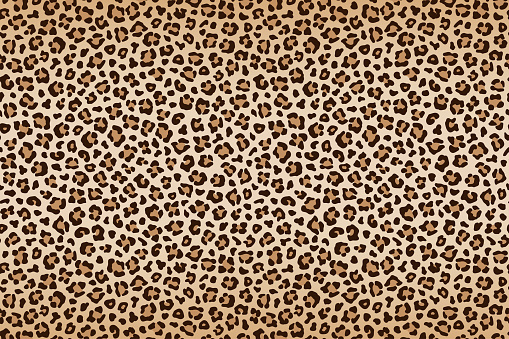
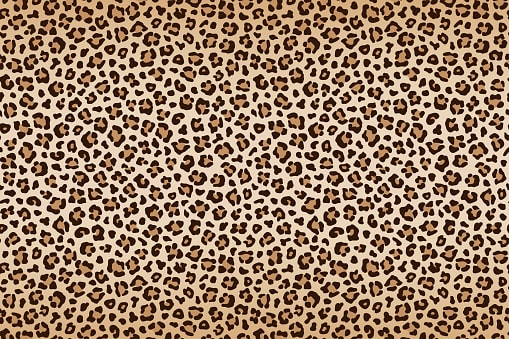
add webp

diff --git a/index.html b/index.html
@@ -93,39 +93,39 @@
                                 <div id="carouselExampleIndicators" class="carousel slide" data-ride="carousel">
                                     <div class="carousel-inner">
                                         <div class="carousel-item active">
-                                            <div class="img" style="background-image: url(img/1.jpg);">
+                                            <div class="img" style="background-image: url(img/1.webp), url(img/1.jpg);">
                                             </div>
                                         </div>
                                         <div class="carousel-item">
-                                            <div class="img" style="background-image: url(img/2.jpg);">
+                                            <div class="img" style="background-image: url(img/2.webp), url(img/2.jpg);">
                                             </div>                                   
                                         </div>
                                         <div class="carousel-item">
-                                            <div class="img" style="background-image: url(img/3.jpg);">
+                                            <div class="img" style="background-image: url(img/3.webp), url(img/3.jpg);">
                                             </div>                                   
                                         </div>
                                         <div class="carousel-item">
-                                            <div class="img" style="background-image: url(img/4.jpg);">
+                                            <div class="img" style="background-image: url(img/4.webp), url(img/4.jpg);">
                                             </div>                                   
                                         </div>
                                         <div class="carousel-item">
-                                            <div class="img" style="background-image: url(img/5.jpg);">
+                                            <div class="img" style="background-image: url(img/5.webp), url(img/5.jpg);">
                                             </div>                                   
                                         </div>
                                         <div class="carousel-item">
-                                            <div class="img" style="background-image: url(img/6.jpg);">
+                                            <div class="img" style="background-image: url(img/6.webp), url(img/6.jpg);">
                                             </div>                                   
                                         </div>
                                         <div class="carousel-item">
-                                            <div class="img" style="background-image: url(img/7.jpg);">
+                                            <div class="img" style="background-image: url(img/7.webp), url(img/7.jpg);">
                                             </div>                                   
                                         </div>
                                         <div class="carousel-item">
-                                            <div class="img" style="background-image: url(img/8.jpg);">
+                                            <div class="img" style="background-image: url(img/8.webp), url(img/8.jpg);">
                                             </div>                                   
                                         </div>
                                         <div class="carousel-item">
-                                            <div class="img" style="background-image: url(img/9.jpg);">
+                                            <div class="img" style="background-image: url(img/9.webp), url(img/9.jpg);">
                                             </div>                                   
                                         </div>
                                     </div>
@@ -167,13 +167,13 @@
                 <div class="content">
                     <div class="row">
                         <div class="col-12">
-                            <div class="lera-photo" style="background-image: url(img/leo.jpg);">
+                            <div class="lera-photo" style="background-image: url(img/leo.webp), url(img/leo.jpg);">
                                 <h3>Lera's twentieth birthday. </h3>
                             </div>
                         </div>
                         <div class="col-6 col-sm-4">
                             <a href="https://instagram.com/peanut.ty?utm_medium=copy_link" target="blank" class="g">
-                                <div class="img" style="background-image: url(img/n.jpg);"></div>
+                                <div class="img" style="background-image: url(img/n.webp), url(img/n.jpg);"></div>
                                 <p class="name">
                                     Настя
                                     <svg xmlns="http://www.w3.org/2000/svg" width="13" height="13" fill="currentColor" class="bi bi-instagram" viewBox="0 0 16 16">
@@ -184,7 +184,7 @@
                         </div>
                         <div class="col-6 col-sm-4">
                             <a href="https://instagram.com/t_roshchupkina?utm_medium=copy_link" target="blank" class="g">
-                                <div class="img" style="background-image: url(img/t.jpg);"></div>
+                                <div class="img" style="background-image: url(img/t.webp),  url(img/t.jpg);"></div>
                                 <p class="name">
                                     Таня
                                     <svg xmlns="http://www.w3.org/2000/svg" width="13" height="13" fill="currentColor" class="bi bi-instagram" viewBox="0 0 16 16">
@@ -195,7 +195,7 @@
                         </div>
                         <div class="col-6 col-sm-4">
                             <a href="https://instagram.com/alexandr_shopen?utm_medium=copy_link" target="blank" class="g">
-                                <div class="img" style="background-image: url(img/s.jpg);"></div>
+                                <div class="img" style="background-image: url(img/s.webp), url(img/s.jpg);"></div>
                                 <p class="name">
                                     Саша
                                     <svg xmlns="http://www.w3.org/2000/svg" width="13" height="13" fill="currentColor" class="bi bi-instagram" viewBox="0 0 16 16">
@@ -206,7 +206,7 @@
                         </div>
                         <div class="col-6 col-sm-4">
                             <a href="https://instagram.com/asta.digital?utm_medium=copy_link" target="blank" class="g">
-                                <div class="img" style="background-image: url(img/k.jpg);"></div>
+                                <div class="img" style="background-image: url(img/k.webp), url(img/k.jpg);"></div>
                                 <p class="name">
                                     Кирилл
                                     <svg xmlns="http://www.w3.org/2000/svg" width="13" height="13" fill="currentColor" class="bi bi-instagram" viewBox="0 0 16 16">
@@ -217,7 +217,7 @@
                         </div>
                         <div class="col-6 col-sm-4">
                             <a href="https://www.instagram.com/anotheronemediacontainer/" target="blank" class="g">
-                                <div class="img" style="background-image: url(img/i.jpg);"></div>
+                                <div class="img" style="background-image: url(img/i.webp), url(img/i.jpg);"></div>
                                 <p class="name">
                                     Ваня
                                     <svg xmlns="http://www.w3.org/2000/svg" width="13" height="13" fill="currentColor" class="bi bi-instagram" viewBox="0 0 16 16">
@@ -228,7 +228,7 @@
                         </div>
                         <div class="col-6 col-sm-4">
                             <a href="https://instagram.com/svyata_vrn?utm_medium=copy_link" target="blank" class="g">
-                                <div class="img" style="background-image: url(img/sv.jpg);"></div>
+                                <div class="img" style="background-image: url(img/sv.webp), url(img/sv.jpg);"></div>
                                 <p class="name">
                                     Свята
                                     <svg xmlns="http://www.w3.org/2000/svg" width="13" height="13" fill="currentColor" class="bi bi-instagram" viewBox="0 0 16 16">
@@ -239,7 +239,7 @@
                         </div>
                         <div class="col-6 col-sm-4">
                             <a href="https://instagram.com/kate.efimovaa?utm_medium=copy_link" target="blank" class="g">
-                                <div class="img" style="background-image: url(img/kk.jpg);"></div>
+                                <div class="img" style="background-image: url(img/kk.webp), url(img/kk.jpg);"></div>
                                 <p class="name">
                                     Катя
                                     <svg xmlns="http://www.w3.org/2000/svg" width="13" height="13" fill="currentColor" class="bi bi-instagram" viewBox="0 0 16 16">
@@ -250,7 +250,7 @@
                         </div>
                         <div class="col-6 col-sm-4">
                             <a href="https://instagram.com/liza_malysheva?utm_medium=copy_link" target="blank" class="g">
-                                <div class="img" style="background-image: url(img/l.jpg);"></div>
+                                <div class="img" style="background-image: url(img/l.webp), url(img/l.jpg);"></div>
                                 <p class="name">
                                     Лиза
                                     <svg xmlns="http://www.w3.org/2000/svg" width="13" height="13" fill="currentColor" class="bi bi-instagram" viewBox="0 0 16 16">

diff --git a/style.css b/style.css
@@ -64,7 +64,7 @@
 }
 
 #page0 {
-    background-image: url("./img/zebra.jpg");
+    background-image: url('img/zebra.webp'), url("./img/zebra.jpg");
     background-size: auto 100%;
     background-repeat: repeat;
     animation: moving-background 10s linear infinite;
@@ -84,7 +84,7 @@
 }
 
 .photo-block .photo {
-    background-image: url('./img/photo_2021-08-19_22-38-07.jpg');
+    background-image: url('img/lera.webp'), url('./img/lera.JPG');
     height: 80%;
     background-size: cover;
     display: flex;
